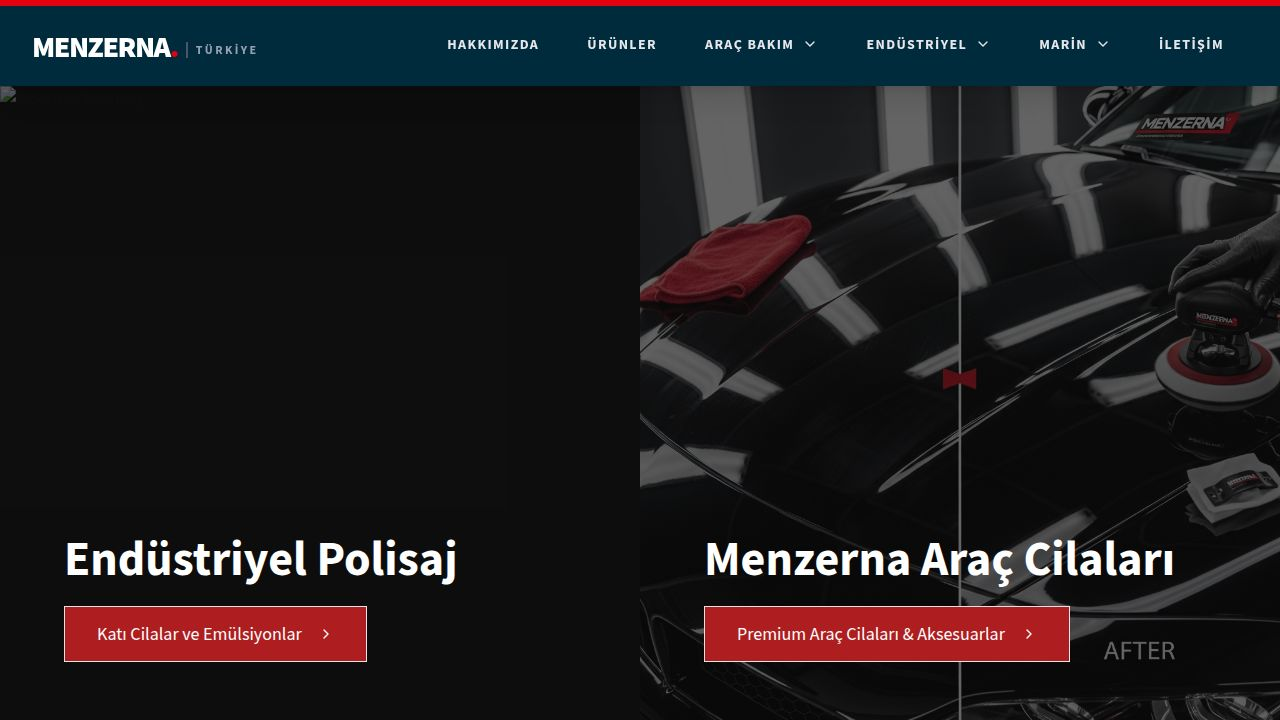
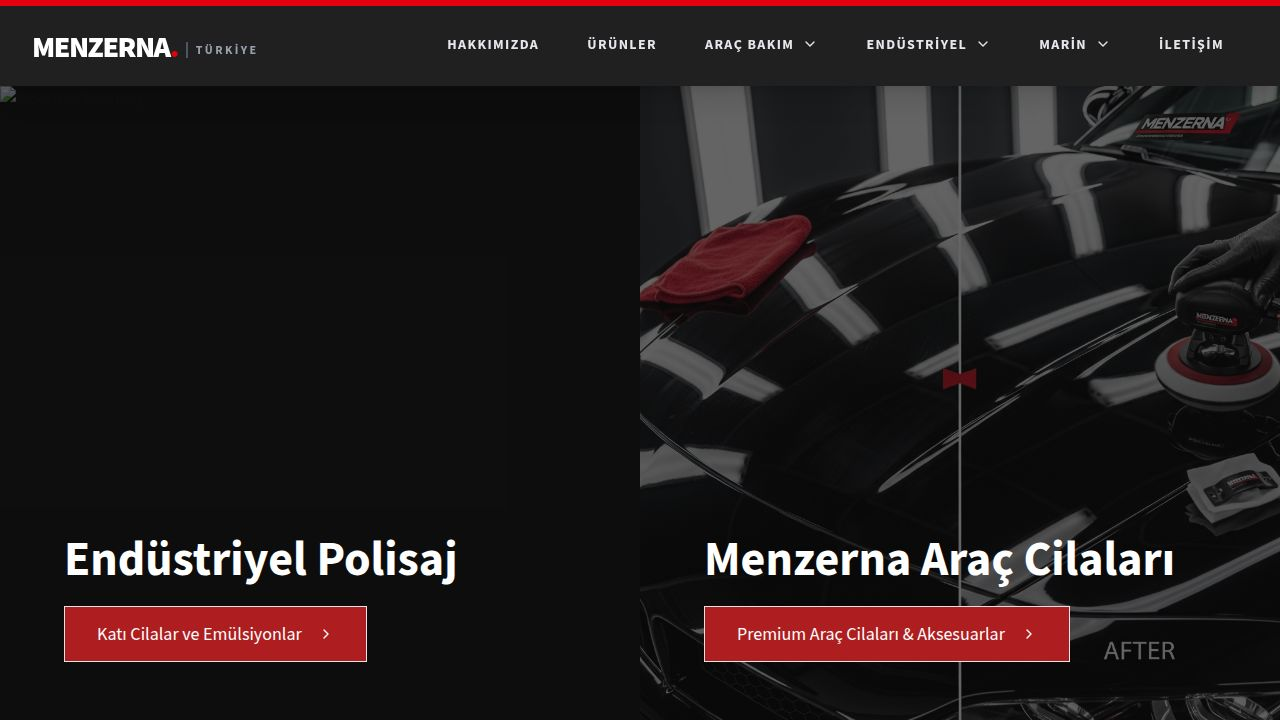
Improve product data extraction and display for better user experience
Refactored `extractBaseName` and `extractSizeLabel` in `product-utils.ts` to handle new size formats (e.g., 'mm') and improve general name cleaning. Updated `ProductCard` and `ProductDetail` components to conditionally render cut/gloss levels for accessories and display new scrape data (type, grease content, color, suitable for). Modified layout component colors and added a Palette icon.

Replit-Commit-Author: Agent
Replit-Commit-Session-Id: 8f08bccc-35f5-465f-b67d-0b365600b909
Replit-Commit-Checkpoint-Type: intermediate_checkpoint
Replit-Commit-Event-Id: b728d03f-4c08-4906-bd80-3f67e772e09b
Replit-Commit-Screenshot-Url: https://storage.googleapis.com/screenshot-production-us-central1/0012e102-3812-4a38-a6a2-64a7b0345e60/8f08bccc-35f5-465f-b67d-0b365600b909/QT7B4Lf
Replit-Helium-Checkpoint-Created: true

Changed region(s): [[0.0, 0.0, 1.0, 0.1222]]

diff --git a/client/src/pages/product-detail.tsx b/client/src/pages/product-detail.tsx
@@ -1,6 +1,6 @@
 import { useState, useMemo, useEffect, useRef, useCallback } from "react";
 import { useParams, Link } from "wouter";
-import { ChevronRight, CheckCircle2, HelpCircle, Droplets, Shield, Settings, Beaker } from "lucide-react";
+import { ChevronRight, CheckCircle2, HelpCircle, Droplets, Shield, Settings, Beaker, Palette } from "lucide-react";
 import { Skeleton } from "@/components/ui/skeleton";
 import { useProduct, useProducts } from "@/lib/data";
 import { groupProductsBySize } from "@/lib/product-utils";
@@ -264,8 +264,11 @@ export default function ProductDetail() {
   const content = d.content as any || {};
   const fields = d.template_fields as any || {};
   const faq = d.faq as any[] || [];
-  const cutLevel = fields.cut_level;
-  const glossLevel = fields.finish_level;
+  const relations = d.relations as any || {};
+  const relatedProducts = relations.related_products as { code: string; name: string; name_tr: string }[] || [];
+  const isAccessory = p.category?.main_cat === "AKSESUAR" || p.category?.main_cat === "MAKİNE-EKİPMAN";
+  const cutLevel = isAccessory ? undefined : fields.cut_level;
+  const glossLevel = isAccessory ? undefined : fields.finish_level;
 
   const features: { label: string; value: string; icon: React.ReactNode }[] = [];
   if (fields.silicone_free) features.push({ label: "Silikon", value: "İçermez", icon: <Shield className="w-5 h-5" /> });
@@ -470,6 +473,39 @@ export default function ProductDetail() {
                         <div key={i} className={`flex-1 ${i < glossLevel ? 'bg-[#009b77]' : 'bg-gray-300'}`} />
                       ))}
                     </div>
+                  </div>
+                )}
+              </div>
+            )}
+
+            {(scrape.compound_type || scrape.grease_content || scrape.color || (scrape.suitable_for && scrape.suitable_for.length > 0)) && (
+              <div className="grid grid-cols-2 sm:grid-cols-4 gap-3 mb-8">
+                {scrape.compound_type && (
+                  <div className="bg-gray-50 border border-gray-200 p-3 flex flex-col items-center text-center">
+                    <div className="text-[#e3000f] mb-1"><Settings className="w-5 h-5" /></div>
+                    <span className="text-[10px] text-gray-400 font-bold uppercase tracking-wider">Tip</span>
+                    <span className="text-sm font-black text-[#202020]">{scrape.compound_type}</span>
+                  </div>
+                )}
+                {scrape.grease_content && (
+                  <div className="bg-gray-50 border border-gray-200 p-3 flex flex-col items-center text-center">
+                    <div className="text-[#e3000f] mb-1"><Droplets className="w-5 h-5" /></div>
+                    <span className="text-[10px] text-gray-400 font-bold uppercase tracking-wider">Yağ İçeriği</span>
+                    <span className="text-sm font-black text-[#202020]">{scrape.grease_content}</span>
+                  </div>
+                )}
+                {scrape.color && (
+                  <div className="bg-gray-50 border border-gray-200 p-3 flex flex-col items-center text-center">
+                    <div className="text-[#e3000f] mb-1"><Palette className="w-5 h-5" /></div>
+                    <span className="text-[10px] text-gray-400 font-bold uppercase tracking-wider">Renk</span>
+                    <span className="text-sm font-black text-[#202020]">{scrape.color}</span>
+                  </div>
+                )}
+                {scrape.suitable_for && scrape.suitable_for.length > 0 && (
+                  <div className="bg-gray-50 border border-gray-200 p-3 flex flex-col items-center text-center">
+                    <div className="text-[#e3000f] mb-1"><CheckCircle2 className="w-5 h-5" /></div>
+                    <span className="text-[10px] text-gray-400 font-bold uppercase tracking-wider">Uygun Malzeme</span>
+                    <span className="text-xs font-bold text-[#202020] leading-tight">{scrape.suitable_for.join(", ")}</span>
                   </div>
                 )}
               </div>
@@ -692,6 +728,46 @@ export default function ProductDetail() {
                   ))}
                 </div>
               )}
+            </div>
+          </div>
+        )}
+
+        {relatedProducts.length > 0 && (
+          <div className="container mx-auto px-4 mt-12 mb-8">
+            <h2 className="text-xl font-black uppercase tracking-widest text-[#202020] mb-6" data-testid="related-products-title">
+              İlgili Ürünler
+            </h2>
+            <div className="grid grid-cols-2 sm:grid-cols-3 md:grid-cols-4 lg:grid-cols-5 gap-4">
+              {relatedProducts.map((rp) => {
+                const codeUpper = (rp.code || "").toUpperCase();
+                const matched = codeUpper ? allProducts?.find((ap: any) => {
+                  const nameMatch = (ap.product_name || "").match(/Menzerna\s+(\S+)/i);
+                  return nameMatch && nameMatch[1].toUpperCase() === codeUpper;
+                }) : undefined;
+                if (matched) {
+                  const slug = getCategorySlug(matched);
+                  return (
+                    <Link key={rp.code} href={`/category/${slug}/${matched.sku}`}>
+                      <div className="border border-gray-200 p-3 hover:border-[#e3000f] transition-colors cursor-pointer bg-white" data-testid={`related-product-${rp.code}`}>
+                        {matched.image_url && (
+                          <div className="aspect-square bg-gray-50 mb-2 flex items-center justify-center overflow-hidden">
+                            <img src={matched.image_url} alt={rp.name_tr} className="w-full h-full object-contain" />
+                          </div>
+                        )}
+                        <p className="text-xs font-bold text-[#202020] leading-tight line-clamp-2">{rp.name_tr}</p>
+                      </div>
+                    </Link>
+                  );
+                }
+                return (
+                  <div key={rp.code || rp.name} className="border border-gray-100 p-3 bg-gray-50 opacity-60" data-testid={`related-product-${rp.code || 'unknown'}`}>
+                    <div className="aspect-square bg-gray-100 mb-2 flex items-center justify-center">
+                      <span className="text-gray-400 text-2xl font-black">{rp.code || "?"}</span>
+                    </div>
+                    <p className="text-xs font-bold text-gray-500 leading-tight line-clamp-2">{rp.name_tr || rp.name || ""}</p>
+                  </div>
+                );
+              })}
             </div>
           </div>
         )}

diff --git a/client/src/lib/product-utils.ts b/client/src/lib/product-utils.ts
@@ -12,18 +12,33 @@ export interface ProductGroup {
 }
 
 const sizePattern = /\s*[-–—]\s*([\d.,]+\s*(?:ml|lt|litre|liter|kg|gr|g|l|cc)\b)/i;
+const mmSizePattern = /\s*[-–—]?\s*([\d.,]+)\s*mm(?:\s*\/\s*[\d.,]+\s*inc\b|\s*\/\s*[\d.,]+'*"?)?/i;
 
 function extractBaseName(name: string): string {
-  return name.replace(sizePattern, "").trim();
+  let result = name.replace(sizePattern, "").trim();
+  result = result.replace(mmSizePattern, "").trim();
+  result = result.replace(/\s*2li\s*Paket/i, "").trim();
+  result = result.replace(/\s*Kalın\s+/i, " ").trim();
+  result = result.replace(/\s*Ara\s+Kat\s+/i, " ").trim();
+  result = result.replace(/\s*Hologram\s+/i, " ").trim();
+  result = result.replace(/\s*Orbital\s+/i, " ").trim();
+  result = result.replace(/\s+/g, " ").trim();
+  return result;
 }
 
 function extractSizeLabel(name: string): string {
-  const match = name.match(sizePattern);
-  if (!match) return "";
-  let label = match[1].trim();
-  label = label.replace(/\blitre\b|\bliter\b/i, "lt");
-  label = label.replace(/\b(\d+)\s*l\b/i, "$1 lt");
-  return label;
+  const volumeMatch = name.match(sizePattern);
+  if (volumeMatch) {
+    let label = volumeMatch[1].trim();
+    label = label.replace(/\blitre\b|\bliter\b/i, "lt");
+    label = label.replace(/\b(\d+)\s*l\b/i, "$1 lt");
+    return label;
+  }
+  const mmMatch = name.match(mmSizePattern);
+  if (mmMatch) {
+    return mmMatch[1].trim() + "mm";
+  }
+  return "";
 }
 
 function sizeToMl(label: string): number {
@@ -38,6 +53,7 @@ function sizeToMl(label: string): number {
   if (lower.includes("gr") || lower.includes("g")) return num;
   if (lower.includes("cc")) return num;
   if (lower.includes("ml")) return num;
+  if (lower.includes("mm")) return num;
   if (lower.includes("l")) return num * 1000;
   return num;
 }

diff --git a/client/src/components/layout.tsx b/client/src/components/layout.tsx
@@ -79,7 +79,7 @@ export function Layout({ children }: { children: React.ReactNode }) {
                   <div className={`absolute top-full left-0 w-80 bg-white shadow-2xl border-t border-gray-200 transition-all duration-200 transform origin-top ${
                     activeMenu === navItem.id ? "opacity-100 scale-y-100 visible" : "opacity-0 scale-y-95 invisible"
                   }`}>
-                    <div className="w-full h-1 bg-[#002b3d]"></div>
+                    <div className="w-full h-1 bg-[#e3000f]"></div>
                     <div className="py-2 flex flex-col">
                       {navItem.subcategories.map((sub) => (
                         <Link key={sub.name} href={sub.href} className={`px-6 py-4 font-bold text-sm transition-colors flex items-center justify-between border-l-2 border-transparent hover:border-[#e3000f] ${
@@ -113,7 +113,7 @@ export function Layout({ children }: { children: React.ReactNode }) {
         </div>
 
         {isMobileMenuOpen && (
-          <div className="lg:hidden bg-[#001f2c] border-t border-gray-700 max-h-[80vh] overflow-y-auto">
+          <div className="lg:hidden bg-[#202020] border-t border-gray-700 max-h-[80vh] overflow-y-auto">
             <div className="border-b border-gray-800">
               <Link href="/about" onClick={() => setIsMobileMenuOpen(false)} className="block px-8 py-4 text-sm font-semibold hover:bg-white/5 transition-colors text-gray-200 hover:text-white">
                   HAKKIMIZDA

diff --git a/client/src/components/product-card.tsx b/client/src/components/product-card.tsx
@@ -66,8 +66,9 @@ export function ProductCard({ product, categorySlug, group }: { product: Product
     setHoverImageIndex(0);
   }, [clearHoverTimer]);
 
-  const cutLevel = activeProduct.template_fields?.cut_level;
-  const glossLevel = activeProduct.template_fields?.finish_level;
+  const isAccessory = activeProduct.category?.main_cat === "AKSESUAR" || activeProduct.category?.main_cat === "MAKİNE-EKİPMAN";
+  const cutLevel = isAccessory ? undefined : activeProduct.template_fields?.cut_level;
+  const glossLevel = isAccessory ? undefined : activeProduct.template_fields?.finish_level;
 
   const getTypeBadge = () => {
     if (activeProduct.template_sub_type === "sanding_paste") {
